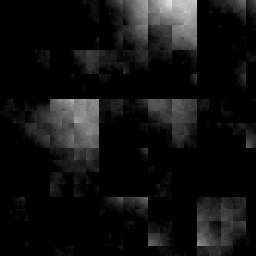
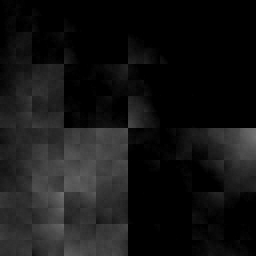
Updated shaders to use the packages

diff --git a/Lab1/MainGame.cpp b/Lab1/MainGame.cpp
@@ -66,7 +66,7 @@ void MainGame::initSystems()
 	FBOShader.init("..\\res\\FBOShader.vert", "..\\res\\FBOShader.frag");
 	grayScaleShader.init("..\\res\\grayScaleShader.vert", "..\\res\\grayScaleShader.frag");
 	edgeDetectionShader.init("..\\res\\edgeDetectionShader.vert", "..\\res\\edgeDetectionShader.frag");
-	noiseShader.init("..\\res\\noise.vert", "..\\res\\noise.frag");
+	noiseShader.init("..\\res\\perlinNoiseShader.vert", "..\\res\\perlinNoiseShader.frag");
 	glowShader.init("..\\res\\glow.vert", "..\\res\\glow.frag");
 	heightMapShader.init("..\\res\\heightMap.vert", "..\\res\\heightMap.frag");
 	
